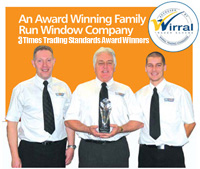
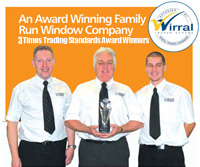
Crops wirral image. Adds image text over image for better layout.

diff --git a/index.html b/index.html
@@ -121,33 +121,21 @@
                             </td>
                             <td width="200" valign="top">
                                 <?php include('./_partials/right_hand_links.html');?>
-                                <p align="center">
-                                    <a href="folding.html">
-                                        <img src="img/bi-fold.jpg" width="195" height="190" alt="Garage doors" border="0" />
-                                    </a>
-                                </p>
-
-                                <p align="center">
-                                    <a href="folding.html"> New Product - Bi-folding Doors</a>
-                                </p>
+                                <a class="link-image" href="folding.html">
+                                    <img src="img/bi-fold.jpg" width="195" height="190" alt="Bi-Folding Doors" border="0" />
+                                    <span class="link-image__text">Bi-folding Doors</span>
+                                </a>
            
-                                <p align="center">
-                                    <a href="garage.html">
-                                        <img src="img/garage-door.jpg" width="195" height="166" alt="Garage doors" border="0" />
-                                    </a>
-                                    <a href="garage.html" title="Wirral Trading Standards Winner" rel="lightbox[doors]"></a>
-                                </p>
+                                <a class="link-image" href="garage.html">
+                                    <img src="img/garage-door.jpg" width="195" height="166" alt="Garage doors" border="0" />
+                                    <span class="link-image__text">Roller Garage Doors</span>
+                                </a>
 
+                                <a class="link-image" href="images/testimonials/wirral_trading_standardsbg.jpg" title="Wirral Trading Standards Winner" rel="lightbox[doors]">
+                                    <img src="img/wirrallsmall.jpg" width="200" height="167" alt="Wirral Trading Standards Winner" border="0" />
+                                    <span class="link-image__text">Award Winning</span>
+                                </a>
 
-                                <p align="center">
-                                    <a href="folding.html"> New Product - Roller Garage Doors</a>
-                                </p>
-
-                                <p align="center">
-                                    <a href="images/testimonials/wirral_trading_standardsbg.jpg" title="Wirral Trading Standards Winner" rel="lightbox[doors]">
-                                        <img src="img/wirrallsmall.jpg" width="200" height="169" alt="Wirral Trading Standards Winner" border="0" />
-                                    </a>
-                                </p>
                             </td>
                         </tr>
                     </table>

diff --git a/css/custom.css b/css/custom.css
@@ -58,3 +58,25 @@ a:link {
 .emphasis {
 	font-weight: bold;
 }
+
+.link-image {
+	display: block;
+	margin-top: 5px;
+	position: relative;
+}
+
+.link-image__text {
+	background: rgb(0,0,0);
+	background: rgba(0,0,0,0.7);
+	bottom: 2px;
+	color: #fff;
+	font-size: 12px;
+	left: 0;
+	padding: 5px 10px;
+	position: absolute;
+	text-transform: uppercase;
+}
+
+.link-image:hover .link-image__text {
+	text-decoration: underline;
+}
